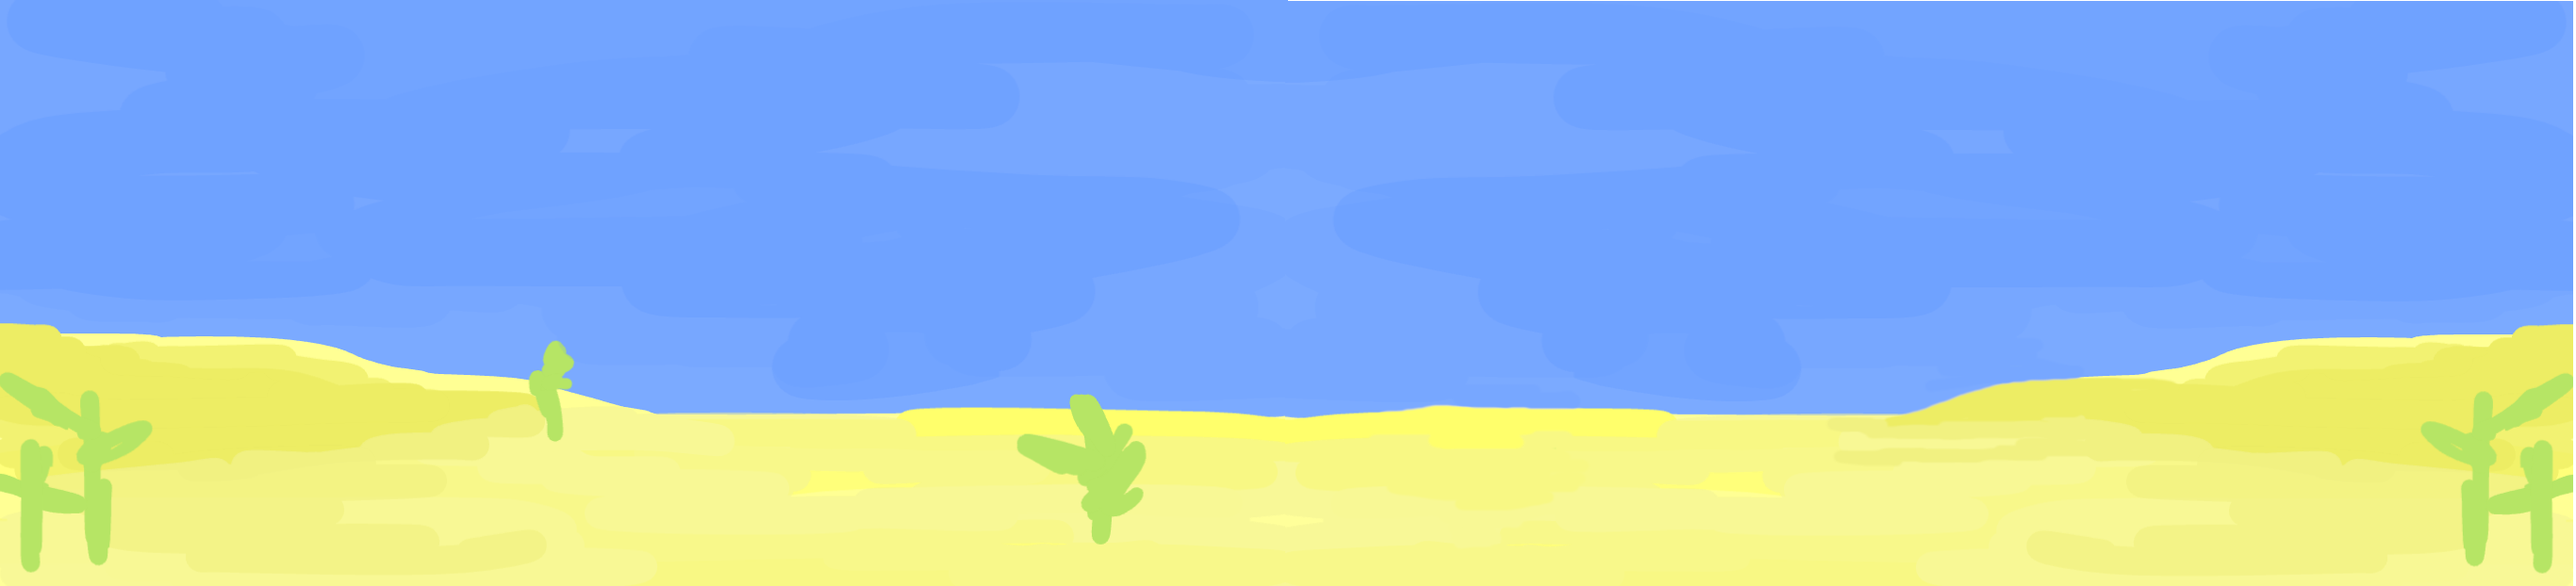
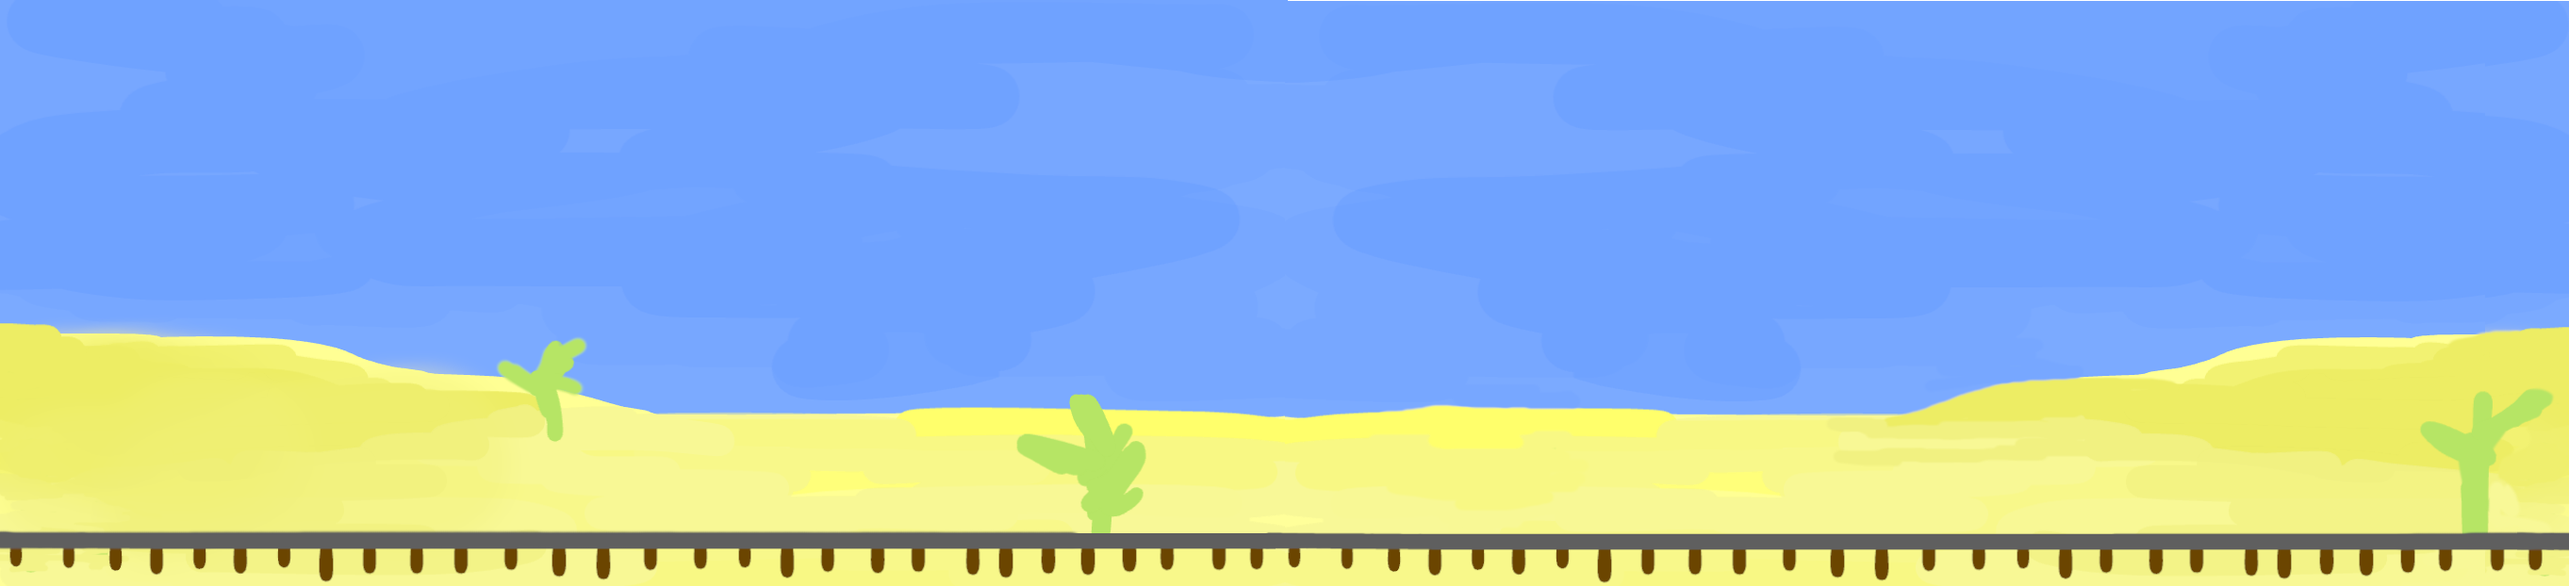
perf: fix boucle paintComponent-repaint

diff --git a/src/main/vues/VueTrain.java b/src/main/vues/VueTrain.java
@@ -30,16 +30,15 @@ public class VueTrain extends JPanel implements Observer {
         repaint();
     }
 
+    @Override
     public void paintComponent(Graphics g) {
-        super.repaint();
-
         for(int i = 0; i < this.modele.getNombreToigons(); i++) {
             Toigon toigon = this.modele.getToigon(i);
-            paint(g, toigon, (i/2)*(LARGEUR_WAGON+MARGE_WAGON), ((i+1)%2)*HAUTEUR_WAGON);
+            paintToigon(g, toigon, (i/2)*(LARGEUR_WAGON+MARGE_WAGON), (int) (0.9*getHeight()) - (1 + (i%2))*HAUTEUR_WAGON);
         }
     }
 
-    private void paint(Graphics g, Toigon toigon, int x, int y) {
+    private void paintToigon(Graphics g, Toigon toigon, int x, int y) {
         g.setColor(Color.BLACK);
         if(toigon.estToit())
             g.setColor(Color.RED);

diff --git a/src/main/vues/VueBackground.java b/src/main/vues/VueBackground.java
@@ -12,7 +12,7 @@ public class VueBackground extends JImage {
         super(image);
         this.offset = 0;
 
-        Timer timer = new Timer(40, new ActionListener() {
+        Timer timer = new Timer(50, new ActionListener() {
             @Override
             public void actionPerformed(ActionEvent e) {
                 // Max pour éviter la division par 0 à la première itération.
@@ -25,8 +25,6 @@ public class VueBackground extends JImage {
 
     @Override
     protected void paintComponent(Graphics g) {
-        super.paintComponent(g);
-
         g.drawImage(getImage(), this.offset + getWidth(), 0, getWidth(), getHeight(), this);
         g.drawImage(getImage(), this.offset + 1, 0, getWidth(), getHeight(), this);
     }

diff --git a/src/main/vues/Assets.java b/src/main/vues/Assets.java
@@ -2,12 +2,13 @@ package main.vues;
 
 import javax.imageio.ImageIO;
 import java.awt.*;
+import java.awt.image.BufferedImage;
 
 public class Assets {
 
-    public static Image IMG_BG;
-    public static Image IMG_RAILS;
-    public static Image IMG_CADRE;
+    public static BufferedImage IMG_BG;
+    public static BufferedImage IMG_RAILS;
+    public static BufferedImage IMG_CADRE;
 
     public static void chargeAssets() {
         try {
